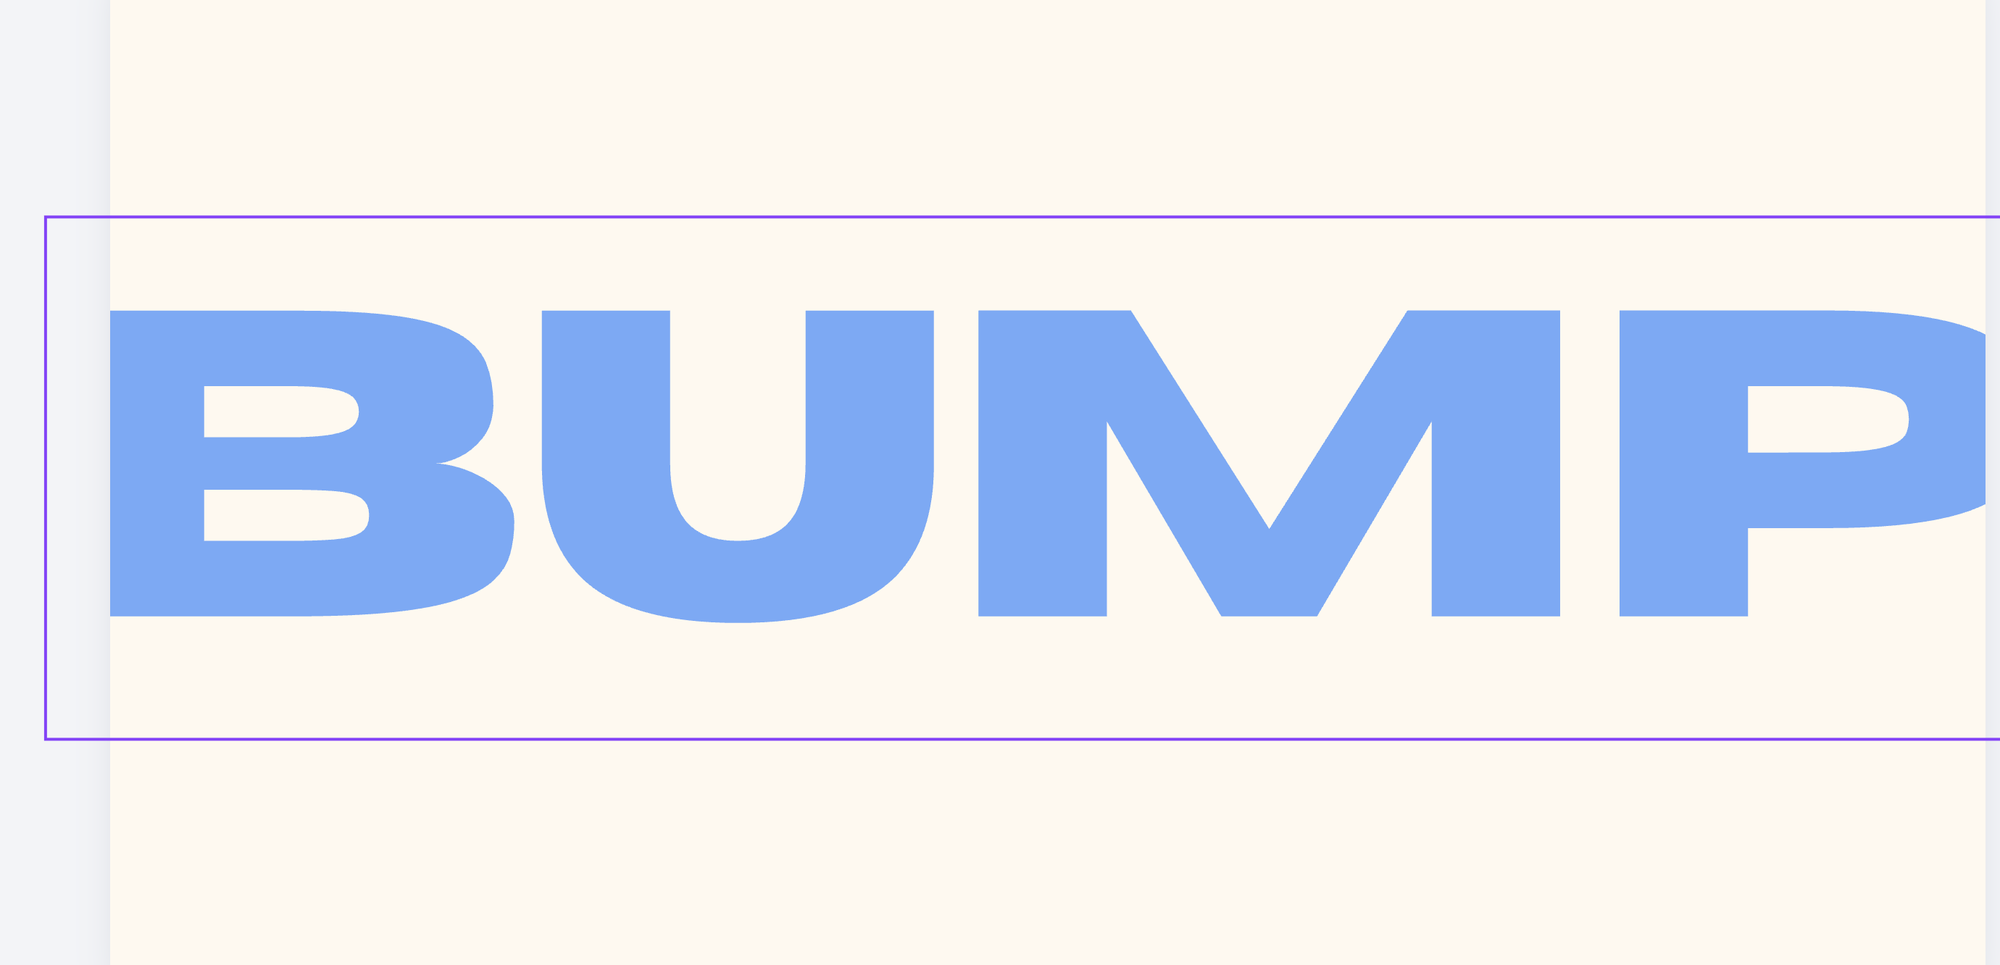
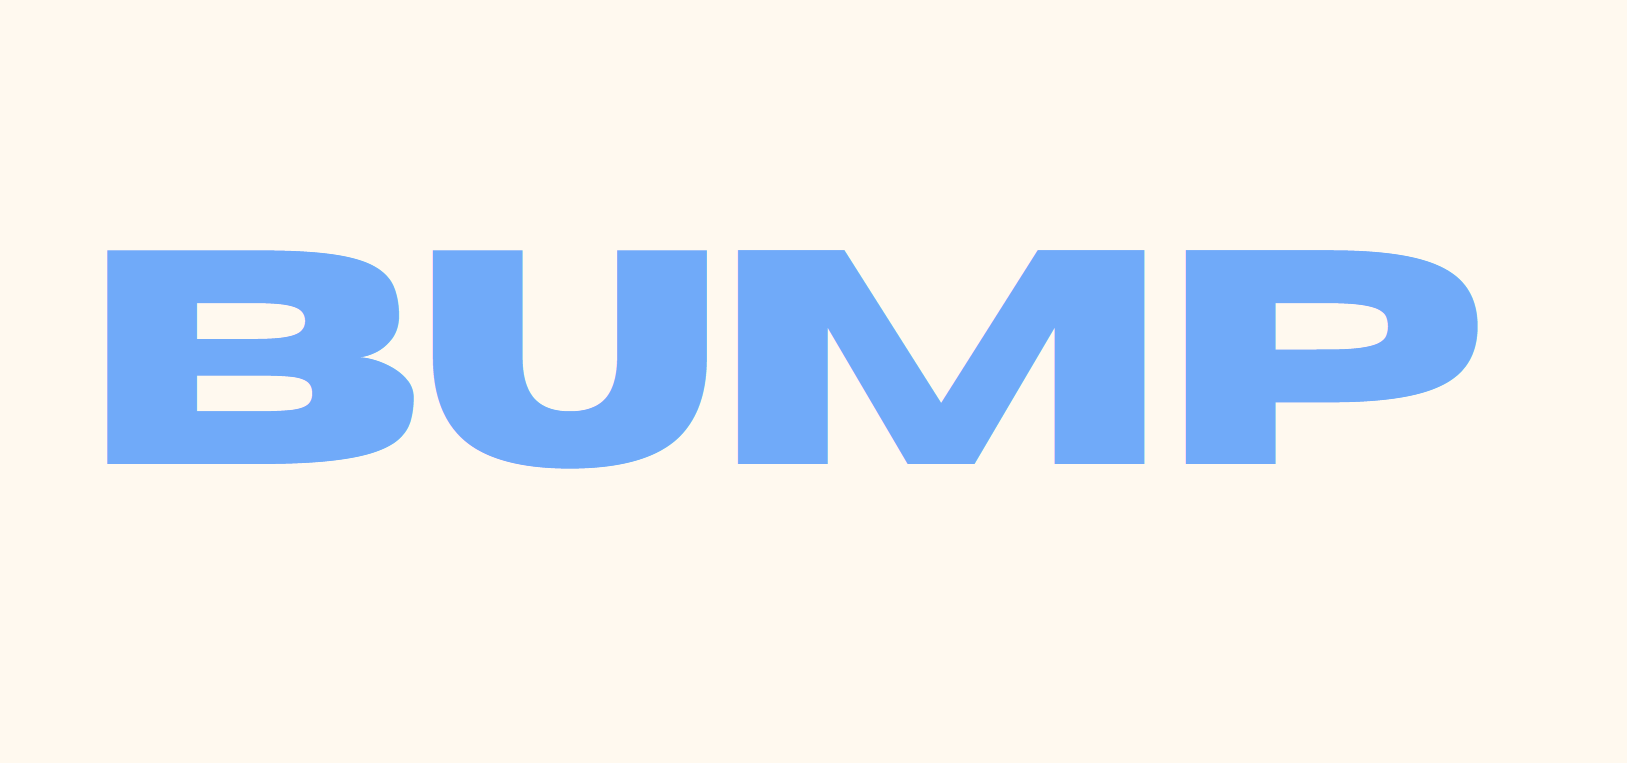
Web: new Horizon wordmark, and a generator that can actually run here
The supplied artwork replaces assets-source/wordmark.source.png, and
src/assets/wordmark.png is regenerated from it: 1371x219, uniform ink
with anti-aliased alpha, cropped tight.

The keying is exact rather than threshold-based. The source is two flat
colours, so every edge pixel is a blend of them and alpha is recovered by
projecting (pixel - GROUND) onto (INK - GROUND). That gives smooth edges
instead of stair-steps, which matters at 92vw. Output RGB is the pure ink
everywhere, so the CTA panel can still invert it to ivory. Neither colour
is hardcoded.

The crop is load-bearing: the hero reveals the wordmark with a centre-out
clip-path mask, so padding baked into the image would offset the reveal
from the point where the phones meet.

This is a new Node script rather than a line in extract.py because
extract.py needs Pillow, which cannot be installed on this machine.
extract.py's existing wordmark line was already drifted from the
committed asset anyway: it writes 2400px into public/assets with hard
alpha, while the real asset is in src/assets with anti-aliased alpha.

Re-seeded MD3 from the new ink #70aaf9. Only 4 of 29 roles move and all
imperceptibly, but tokens.css documents its seed as sampled from the
wordmark, and letting that go stale is the same drift described above.
--brand-phone-blue becomes --brand-wordmark-ink, which is what it was.

Known regression: the new artwork carries less pixel data than the 1875px
[…]

Changed region(s): [[0.0307, 0.3014, 1.0, 0.6632], [0.0307, 0.7536, 1.0, 0.7837], [0.0307, 0.211, 1.0, 0.2412]]

diff --git a/web/src/styles/tokens.css b/web/src/styles/tokens.css
@@ -5,11 +5,11 @@
    whole scheme is derived from one seed colour by Google's own
    @material/material-color-utilities (HCT colour space, tonal palettes).
 
-       seed  #73a9f5   the BUMP brand blue, sampled from the wordmark artwork
-       HCT   hue 259.4 · chroma 48.2 · tone 68.5
+       seed  #70aaf9   the BUMP wordmark ink, measured off the Horizon artwork
+       HCT   hue 259.0 · chroma 49.8 · tone 68.8
 
-   The brand blue lands almost exactly on MD3 primary tone 70 (#77adf9), which
-   is why the seed needed no adjustment.
+   The wordmark ink lands almost exactly on MD3 primary tone 70, which is why
+   the seed needs no adjustment.
 
    NEUTRALS ARE MD3'S, NOT THE BRAND'S. The earlier palette used a warm ivory
    (#fff9f0) sampled from the artwork. MD3 derives neutrals from the seed hue,
@@ -25,17 +25,17 @@
      29 roles straight out of the generator. Every --md-sys-color-x has a
      matching --md-sys-color-on-x guaranteed to meet contrast against it. */
 
-  --md-sys-color-primary: #1e5fa6;
+  --md-sys-color-primary: #155fa9;
   --md-sys-color-on-primary: #ffffff;
   --md-sys-color-primary-container: #d4e3ff;
   --md-sys-color-on-primary-container: #001c3a;
 
-  --md-sys-color-secondary: #555f71;
+  --md-sys-color-secondary: #545f71;
   --md-sys-color-on-secondary: #ffffff;
   --md-sys-color-secondary-container: #d8e3f8;
   --md-sys-color-on-secondary-container: #111c2b;
 
-  --md-sys-color-tertiary: #6e5676;
+  --md-sys-color-tertiary: #6d5676;
   --md-sys-color-on-tertiary: #ffffff;
   --md-sys-color-tertiary-container: #f7d8ff;
   --md-sys-color-on-tertiary-container: #271430;
@@ -59,7 +59,7 @@
   --md-sys-color-scrim: #000000;
   --md-sys-color-inverse-surface: #2f3033;
   --md-sys-color-inverse-on-surface: #f1f0f4;
-  --md-sys-color-inverse-primary: #a6c8ff;
+  --md-sys-color-inverse-primary: #a5c8ff;
 
   /* Surface container ladder (MD3 2023). Tones off the same neutral palette.
      This is how MD3 separates stacked surfaces: by tone, not by shadow. */
@@ -73,10 +73,10 @@
 
   /* --- Brand reference ----------------------------------------------------
      Not part of the MD3 scheme and deliberately outside it. These sample the
-     photographs so tints can be keyed to the artwork. NEVER use them as UI
-     chrome: no buttons, no links, no text. */
-  --brand-seed: #73a9f5;
-  --brand-phone-blue: #73a9f5;
+     artwork so tints can be keyed to it. NEVER use them as UI chrome: no
+     buttons, no links, no text. */
+  --brand-seed: #70aaf9;          /* the wordmark ink, and the MD3 seed */
+  --brand-wordmark-ink: #70aaf9;  /* Horizon artwork, assets-source/wordmark.source.png */
   --brand-phone-orange: #f0955a;
 
   /* --- MD3 typescale ------------------------------------------------------

diff --git a/web/README.md b/web/README.md
@@ -28,10 +28,11 @@ derivatives are generated from them:
 |---|---|---|
 | `phone-blue-hand.source.png` | `public/assets/phone-blue.png` (+`@1600`) | Blue phone, hand and full wrist, keyed to transparency |
 | `phone-orange-hand.source.png` | `public/assets/phone-orange.png` (+`@1600`) | Orange phone, hand and full wrist |
-| `wordmark.source.png` | `src/assets/wordmark.png` | BUMP logo artwork, ivory keyed out |
+| `wordmark.source.png` | `src/assets/wordmark.png` | BUMP logo artwork (Horizon), ivory keyed out. Generated by `scripts/extract-wordmark.mjs`, not by `extract.py`. |
 
 ```bash
-python3 assets-source/extract.py   # regenerate the phone cutouts
+python3 assets-source/extract.py         # phone cutouts (needs Pillow)
+node scripts/extract-wordmark.mjs        # the wordmark (needs nothing but Node)
 ```
 
 `extract.py` keys the white studio background, keeps the largest connected blob
@@ -41,14 +42,18 @@ photograph's own proportions — nothing is stretched or re-posed.
 
 ### Still wanted
 
-- **The Horizon webfont.** The wordmark is the real artwork, so the logo is
-  pixel-accurate without it — but headings currently use **Archivo** (Google
-  Fonts, variable weight + width), chosen to sit close to the heavy wide
-  lettering. Drop licensed `.woff2` files in and swap the `--font-display` stack
-  if you want Horizon for headings too.
-- **A vector wordmark.** `wordmark.png` is 1875×311, which is crisp up to about
-  1900 CSS px. It is displayed up to 92vw, so on displays wider than ~2000px it
-  softens slightly. An SVG export would remove that ceiling.
+- **The Horizon webfont.** The logo typeface is confirmed to be **Horizon**, and
+  the wordmark ships as artwork, so the logo is pixel-accurate without the font
+  installed. Headings still use **Archivo** (Google Fonts, variable weight +
+  width), chosen to sit close to Horizon's heavy wide lettering. Drop licensed
+  `.woff2` files in and point `--md-ref-typeface-brand` at them to use Horizon
+  for headings too.
+- **A higher-resolution or vector wordmark.** `wordmark.png` is **1371×219**,
+  crisp to about 1370 CSS px. The hero displays it up to 92vw and the ultrawide
+  cap is 1560px, so it is already upscaled on wide displays. The previous
+  artwork was 1875px, so this is a step down in resolution: the supplied source
+  (`1627×763`) simply has less pixel data in the letters. An SVG export removes
+  the ceiling entirely and is the single highest-value asset fix available.
 - **Product screenshots.** The "how it works" and overlap sections use typography
   and example data rather than app UI. Real screenshots from the iOS app would
   strengthen both.
